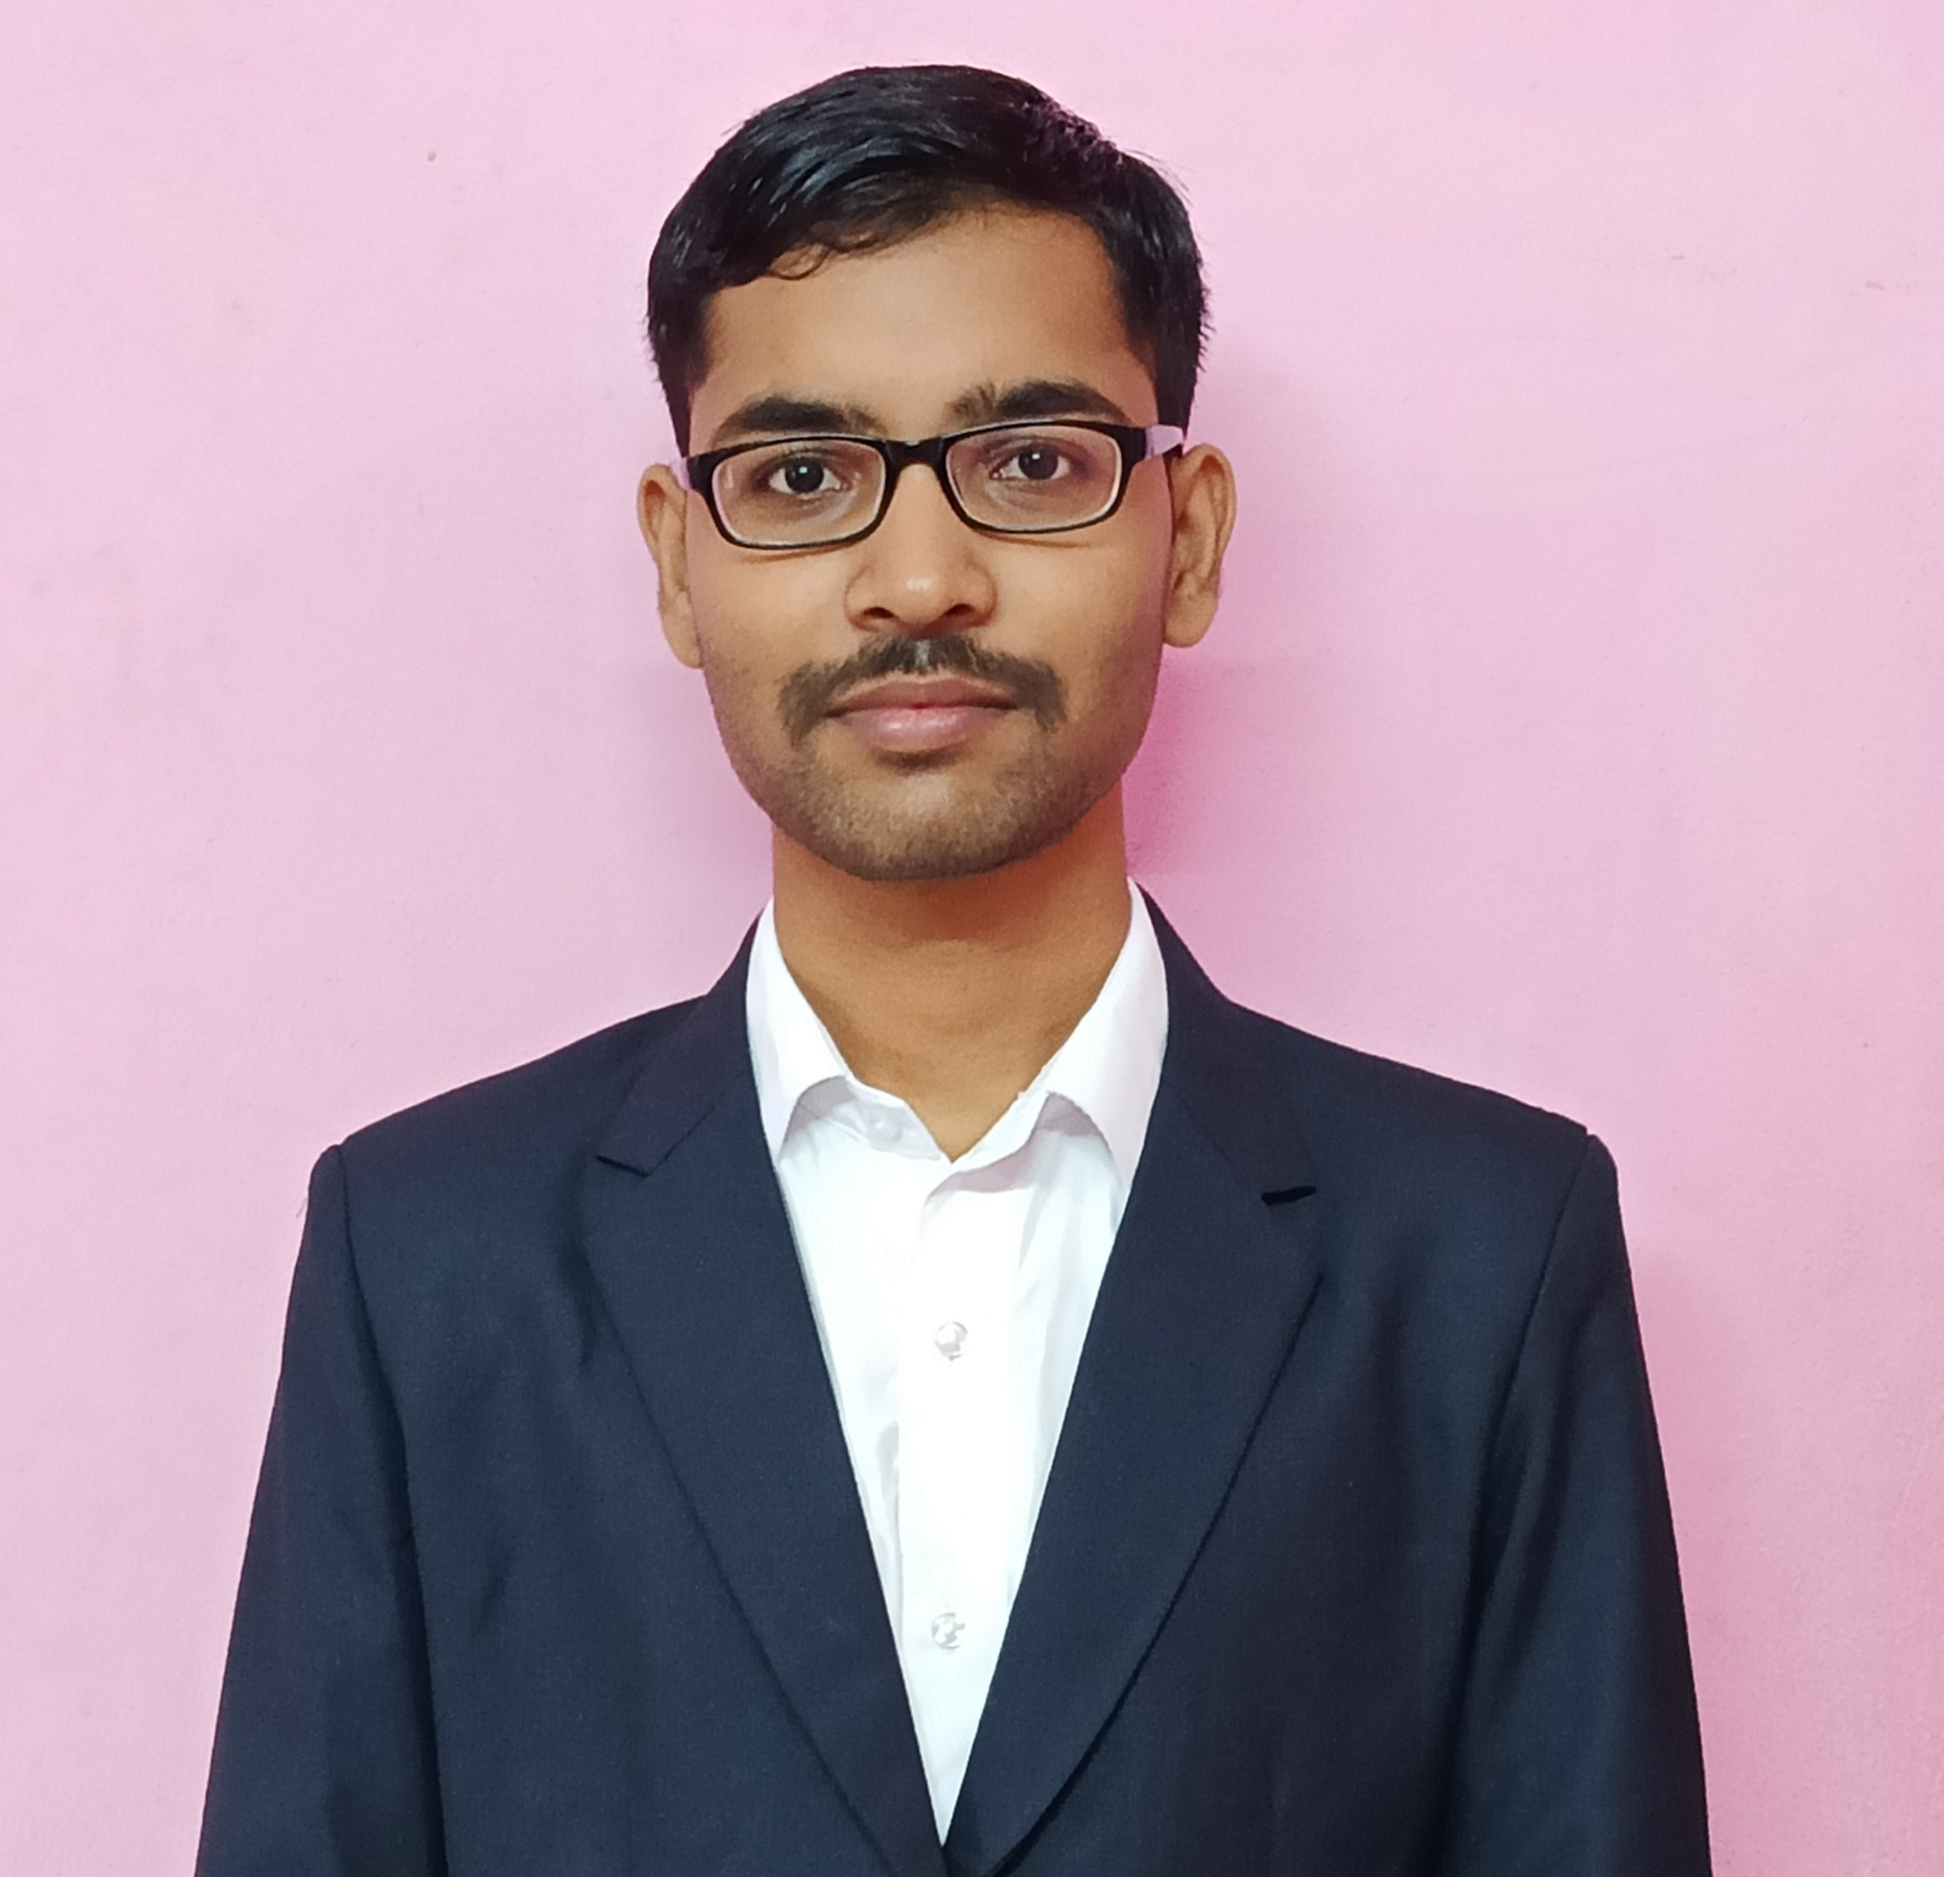
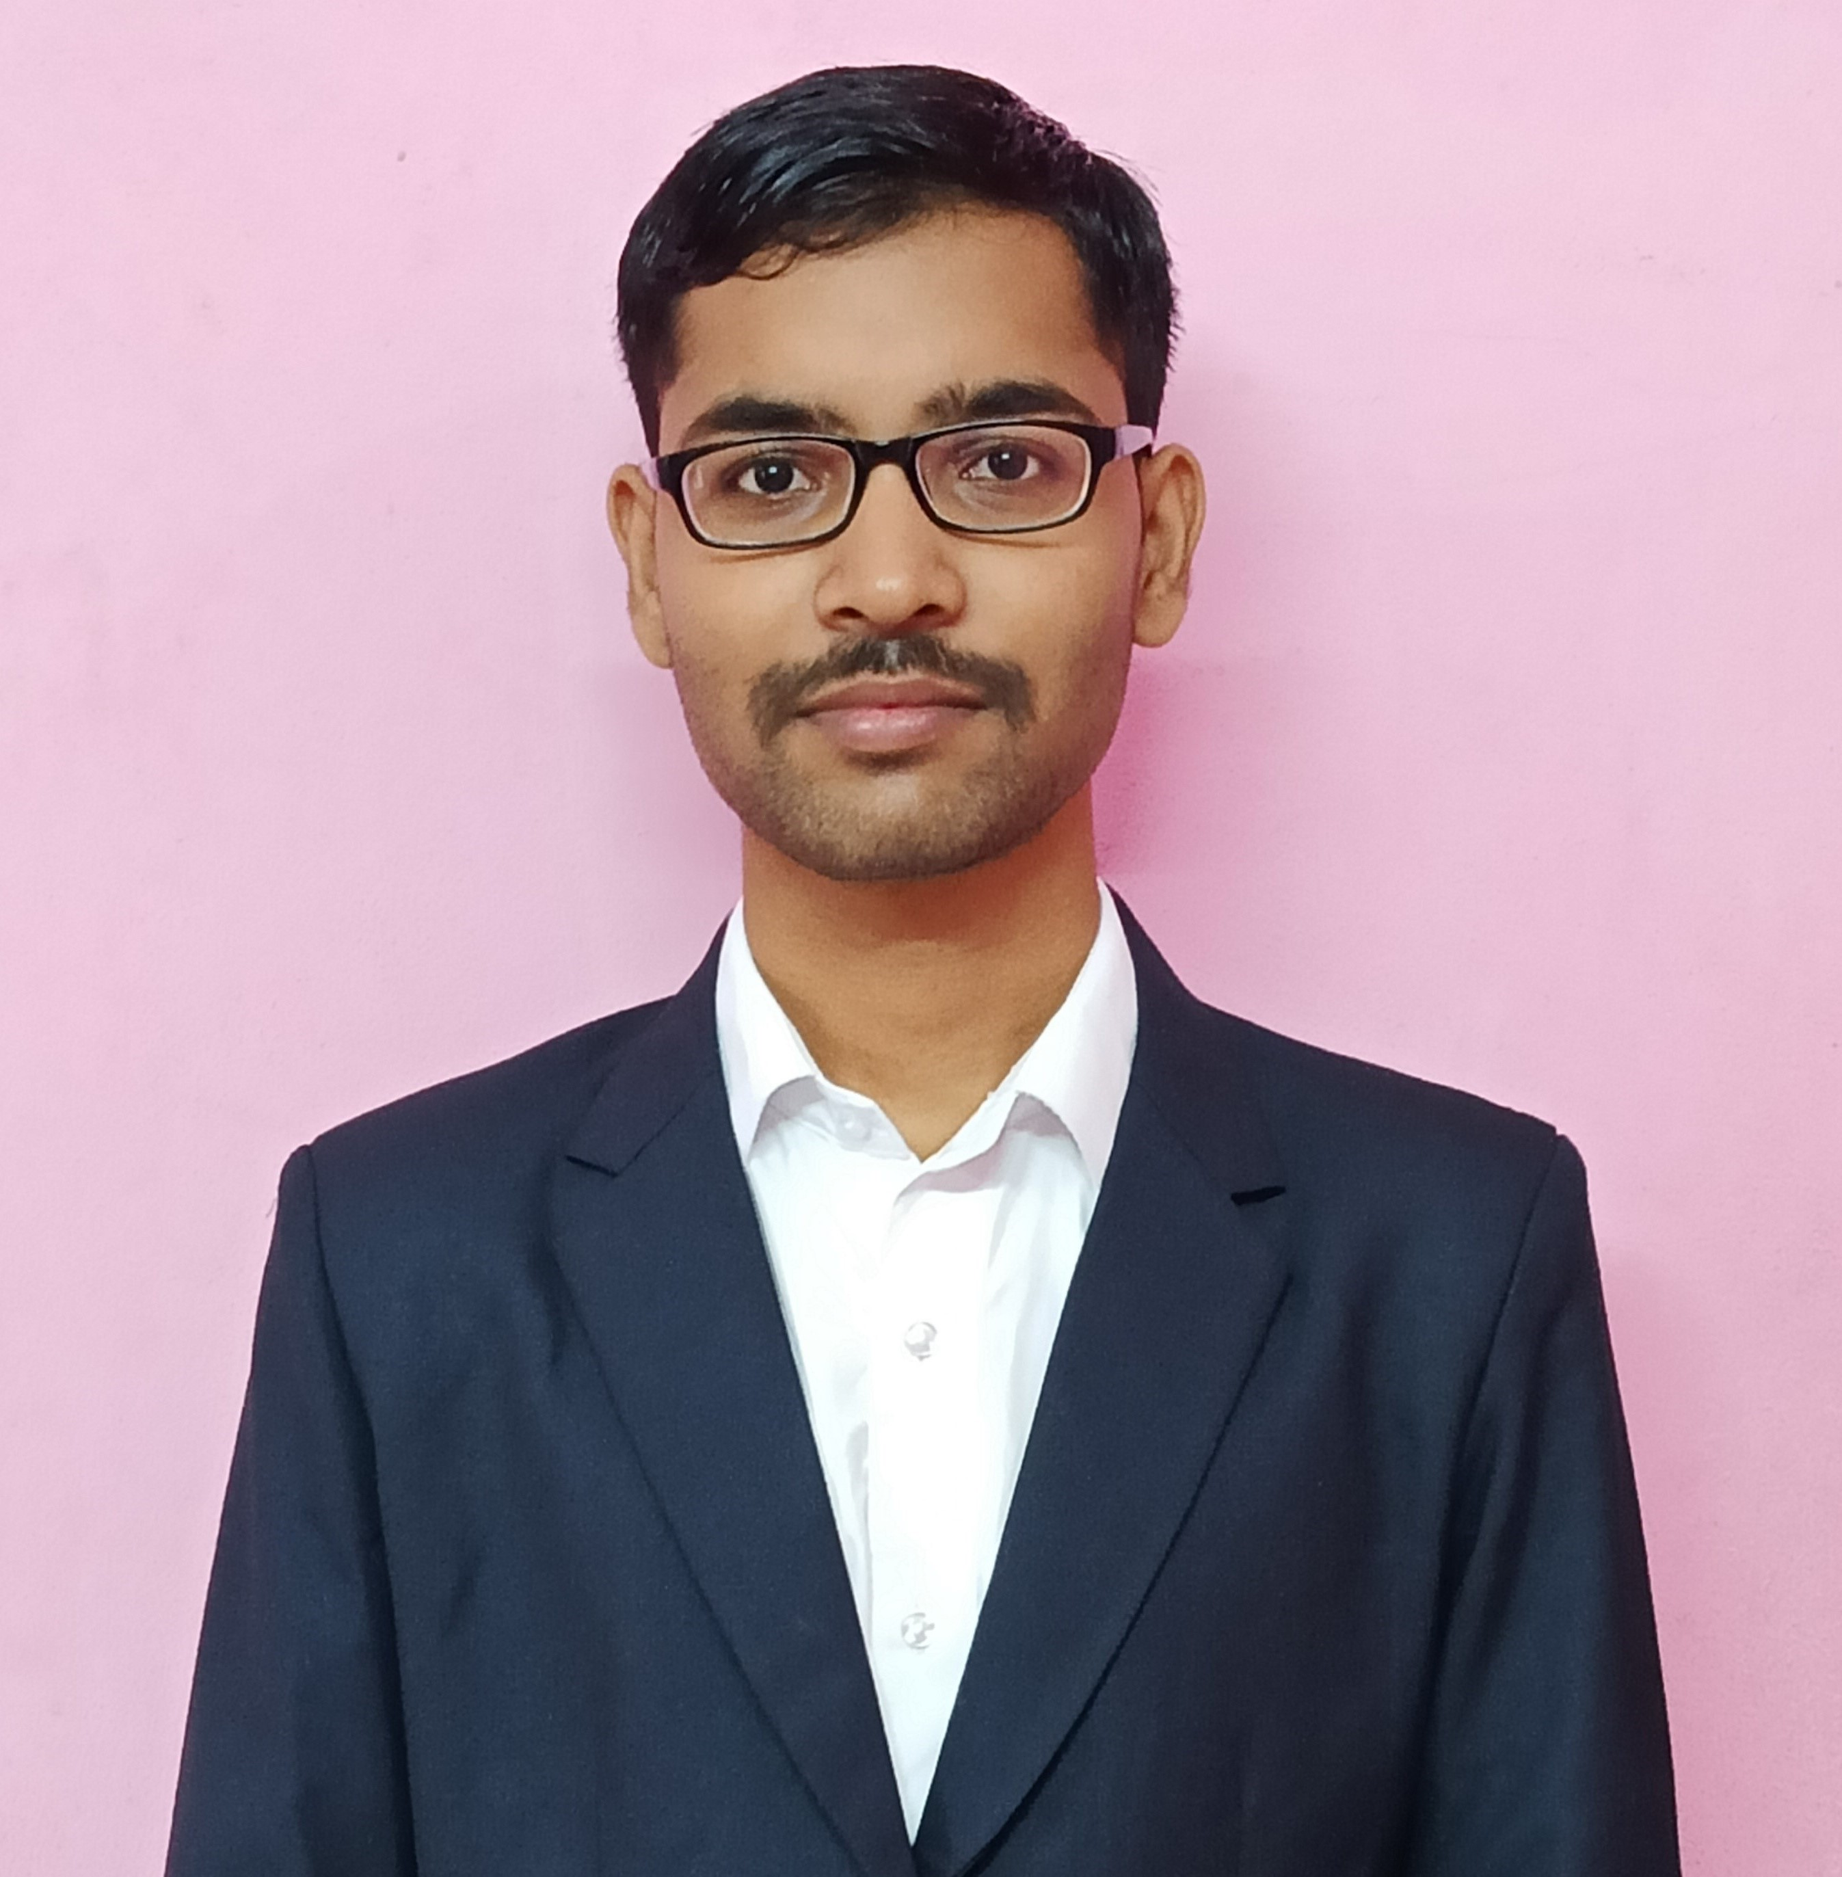
update

diff --git a/style.css b/style.css
@@ -309,11 +309,11 @@ section .title::before{
 
 /* about section styling */
 .about .about-content .left{
-    width: 40%;
+    width: 45%;
 }
 .about .about-content .left img{
     height: 450px;
-    width: 400px;
+    width: 420px;
     object-fit: cover;
     border-radius: 6px;
 }
